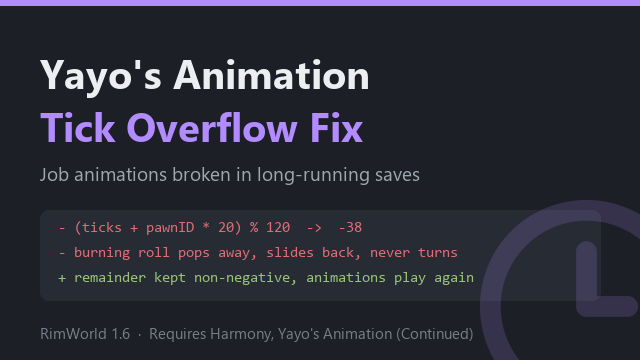
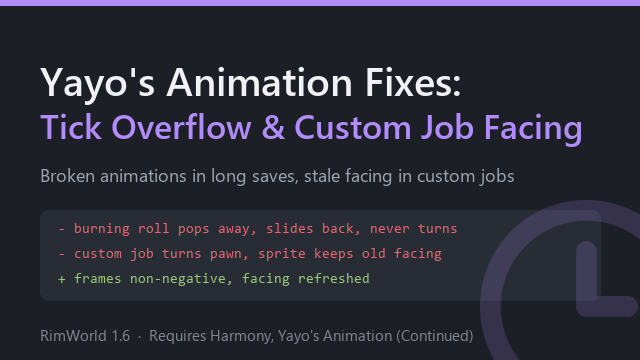
Refresh cached facing for custom jobs and rename to Yayo's Animation Fixes
For standing jobs without a Yayo animation, AniStanding caches the facing
with nextUpdateTick = int.MaxValue, so a job driver turning the pawn mid-job
was drawn with the stale facing. Force a recompute in that cached case when
the pawn's facing changes. Also point the Harmony reference at 1.6.

diff --git a/Source/Patch.cs b/Source/Patch.cs
@@ -2,8 +2,10 @@ using System.Collections.Generic;
 using System.Reflection;
 using System.Reflection.Emit;
 using HarmonyLib;
+using RimWorld;
 using Verse;
 using YayoAnimation;
+using YayoAnimation.Data;
 
 namespace YayoAnimationTickFix
 {
@@ -50,6 +52,23 @@ namespace YayoAnimationTickFix
         {
             int r = value % divisor;
             return r < 0 ? r + divisor : r;
+        }
+    }
+
+    /// <summary>
+    /// For standing jobs Yayo has no animation for (e.g. custom jobs from other mods), AniStanding caches the facing
+    /// in fixedRot with nextUpdateTick = int.MaxValue, so it is never refreshed until the job changes. Rotation
+    /// changes made by the job driver mid-job are then drawn with the stale facing. Only that cached case is
+    /// invalidated when the facing differs; animations that set their own facing refresh on their own schedule.
+    /// </summary>
+    [HarmonyPatch(typeof(AnimationCore), nameof(AnimationCore.CheckAni))]
+    public static class Patch_AnimationCore_CheckAni
+    {
+        public static void Prefix(Pawn pawn, Rot4 rot, PawnDrawData pdd)
+        {
+            if (pdd.nextUpdateTick == int.MaxValue && pdd.fixedRot.HasValue && pdd.fixedRot.Value != rot
+                && pawn.GetPosture() == PawnPosture.Standing)
+                pdd.nextUpdateTick = int.MinValue;
         }
     }
 }
